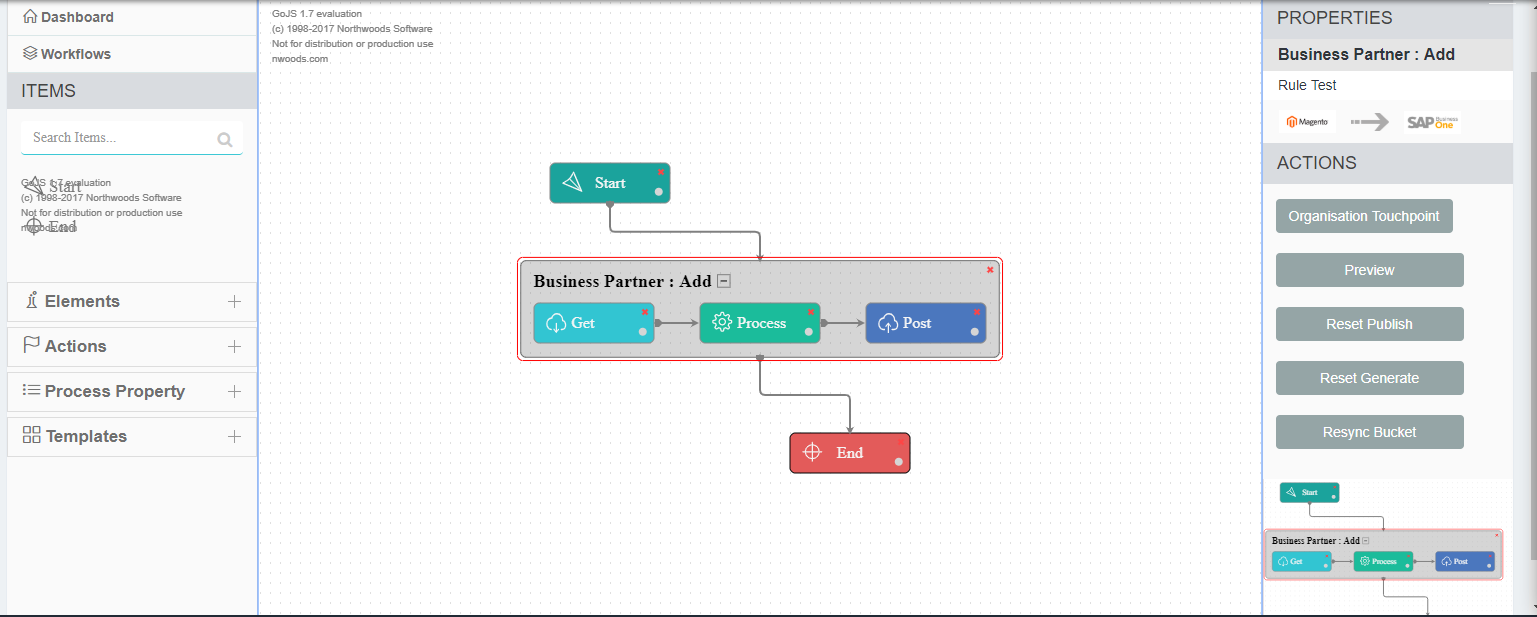
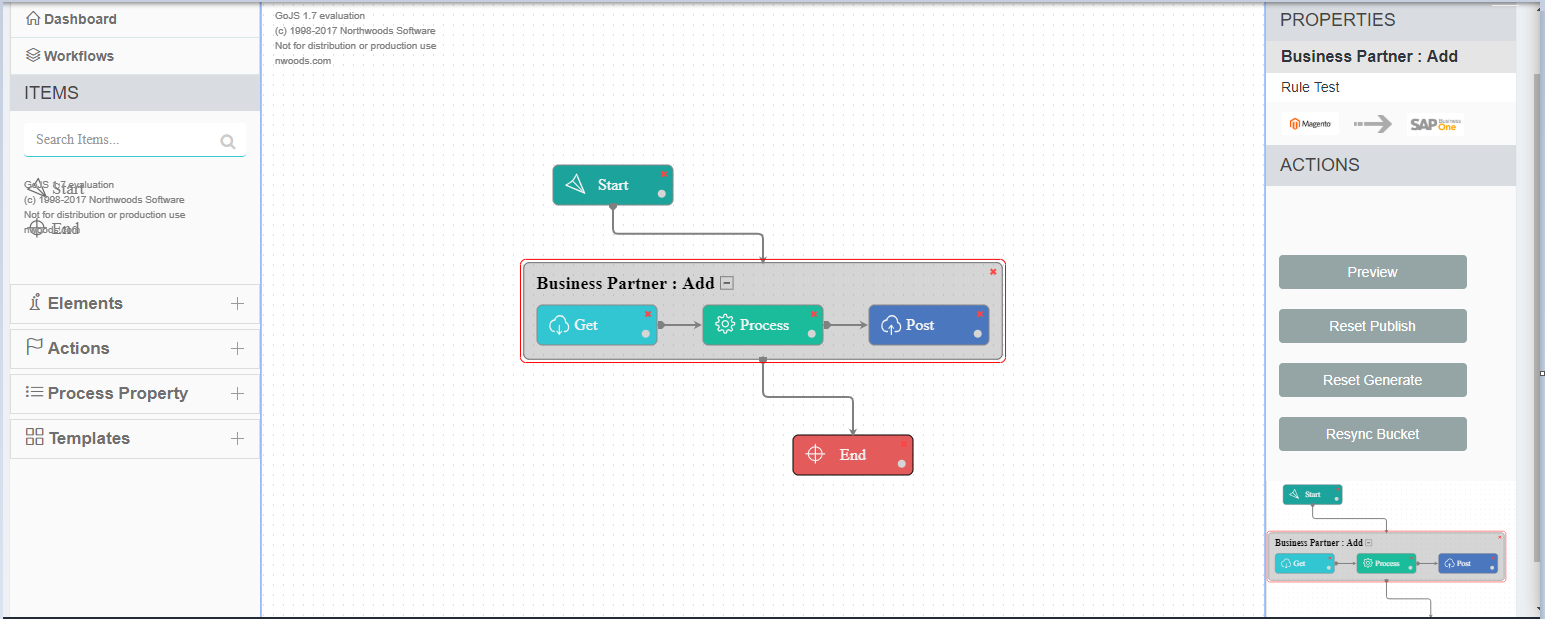
Update REST

diff --git a/_site/assets/js/lunr-en.js b/_site/assets/js/lunr-en.js
@@ -2059,6 +2059,15 @@ var idx = lunr(function () {
     });
     
   
+    idx.add({
+      title: "Mapping and Transformation",
+      excerpt: "Given below is the mapping details for Rest Adapter required for data Integration. Basic prerequisite for Mapping: (A) Here the...",
+      categories: ["Connectors"],
+      tags: ["developers"],
+      id: 227
+    });
+    
+  
 
 
 console.log( jQuery.type(idx) );
@@ -4567,6 +4576,17 @@ var store = [
         "title": "Using Filters for Integration",
         "url": "/connectors/Filters-for-Integration/",
         "excerpt": "Users can define Filters for integration scenario as per business requirements for the GET, POST and PUT operation for REST...",
+        "teaser":
+          
+            "/assets/images/APPSeCONNECT-documentation.png"
+          
+      },
+    
+      
+      {
+        "title": "Mapping and Transformation",
+        "url": "/connectors/Mapping-and-Transformation/",
+        "excerpt": "Given below is the mapping details for Rest Adapter required for data Integration. Basic prerequisite for Mapping: (A) Here the...",
         "teaser":
           
             "/assets/images/APPSeCONNECT-documentation.png"

diff --git a/_site/index.html b/_site/index.html
@@ -696,6 +696,12 @@
     </li>
     
     
+    <li class="menu-item-" data-url="/connectors/Mapping-and-Transformation/" data-jstree='{"icon":"fa fa-gg"}'>
+        <a href="/connectors/Mapping-and-Transformation/" onclick="selectTab('/connectors/Mapping-and-Transformation/', event);" title="Go to Mapping and Transformation">Mapping and Transformation</a>
+        
+    </li>
+    
+    
     <li class="menu-item-" data-url="/connectors/Authentication-and-Authorization/" data-jstree='{"icon":"fa fa-gg"}'>
         <a href="/connectors/Authentication-and-Authorization/" onclick="selectTab('/connectors/Authentication-and-Authorization/', event);" title="Go to Authentication of REST Adapters">Authentication of REST Adapters</a>
         

diff --git a/_posts/Connectors/Technology Connectors/Rest/2019-09-21-Filters-for-Integration.md b/_posts/Connectors/Technology Connectors/Rest/2019-09-21-Filters-for-Integration.md
@@ -42,8 +42,8 @@ from  the workflow workarea itself for REST based application.
 
 ![rest-getnode-workflow](/staticfiles/connectors/media/technology-connector/rest-getnode-workflow.png) 
 
-3 Here you have to define action filters for the REST based connection by clicking on the node (GET) of the workflow. 
-  View the right side panel and click `Action` button. The following screen appears. 
+3 Here you have to define action filters for the REST based connection by clicking on the `GET` node of the workflow. 
+  View the right side panel and click `Filter` button. The following screen appears. 
 
 ![rest_get_actionfilter](/staticfiles/connectors/media/technology-connector/rest_get_actionfilter.png) 
 
@@ -55,22 +55,30 @@ Here Lightspeed app has been taken and it supports OAuth 2.0 for Rest Protocol. 
 
 Click on the Action Filter Tab, to define the action for the GET node.
 
-* Endpoint - Each endpoint is the location from which APIs can access the resources they need to carry out their function.This is a mandatory field, enter the endpoint 
+* Endpoint - Each endpoint is the location from which APIs can access the resources from the respective module of the application.This is a mandatory field, enter the endpoint 
 * Decsription - This field enables you to decsribe the endpoints. This is a mandatory field, enter the description
 * HTTP Method - The HTTP verbs comprise a major portion of our `uniform interface` constraint and provide us the action counterpart to the noun-based resource. Here you need to select `GET` from the drop down list 
   for executing the GET Operation.
 * Content Type - The Content-Type entity header is used to indicate the media type of the resource. In responses, a Content-Type header tells the client what the 
   content type of the returned content actually isSelect from the drop down list. This is of  two types `application/xml` and `application/json`
-* Header - The Content-Type header describes the format the body of your request is being sent as. 
-  For example, the body of your requests can be sent as JSON or XML, but you need to declare in the Content-Type header which one is being used.
+* Header - Use the headers to provide information about the entity or other resource that you are requesting. Each app has its own REST API supports its own set of  HTTP headers.
   Header has two section, insert the header type and header values here. Add button enables to add more header fields, if required. 
 * Parameter - The rest parameter syntax allows us to represent an indefinite number of arguments as an array. 
   With the help of a rest parameter a function can be called with any number of arguments, no matter how it was defined.
   Parameter has two section, insert the parameter type and parameter values here. Add button enables to add more parameter fields, if required. 
-* Response Type - Not Applicable here. 
+* Response Map - Not Applicable here. 
 * Body - Not Applicable here.
 
 Now you have successfully defined the action filter for `GET Operation` supporting REST protocol.
+
+Here in the example, the relationship between key and value is `>`, the 
+value for key is `createTime>~{ReadDate('yyyy-MM-ddTHH:mm:ssK','0')}~`
+
+![rest-resync-filter-parameters](/staticfiles/connectors/media/technology-connector/rest-resync-filter-parameters.png)   
+
+**Note: For any XML & JSON extension in the endpoint name, use $ before the extension while inserting the key, e.g:`customers/$.xml`**
+
+
 
 ## Defining Error Filters for Get Operation
 
@@ -89,12 +97,7 @@ Under the parameter section, the value for `key` is available in respective appl
 If the relationship between key and value is not `=`, then the `value` must be declared in the `key`
 section itself and the `value` must be kept blank.
 
-Here in the example, the relationship between key and value is `>`, the 
-value for key is `createTime>~{ReadDate('yyyy-MM-ddTHH:mm:ssK','0')}~`
 
-![rest-resync-filter-parameters](/staticfiles/connectors/media/technology-connector/rest-resync-filter-parameters.png)   
-
-**Note: For any XML & JSON extension in the endpoint name, use $ before the extension while inserting the key, e.g:`customers/$.xml`**
 
 ### For POST Operation
 

diff --git a/_posts/Connectors/Technology Connectors/Rest/2019-09-20-OAuth2.0.md b/_posts/Connectors/Technology Connectors/Rest/2019-09-20-OAuth2.0.md
@@ -15,9 +15,8 @@ menus:
 
 To configure the OAuth2.0 Authentication type for Generic Rest Adapter follow the steps given below:
 
-1. [Login to APPSeCONNECT Portal](https://docs.appseconnect.com/) and choose the desired application (Rest Supported Application).  
+1. [Login to APPSeCONNECT Portal](https://docs.appseconnect.com/)
 2. [Create Technology Application](/getting-started/#creating-connection--executing-the-touchpoint) using generic rest adapter. Choose `REST` option while creating technology application for REST based protocol.  
-3. [Create Connection](/getting-started/#creating-connection--executing-the-touchpoint) between the application.  
 
 **Protip:** You can use either both technology app or one tech app and one prepackaged app while creating a connection. 
  Also you need to click `Configure Connector` button for creating connection as your desired connection is made of custom application.   
@@ -41,8 +40,8 @@ Provide the Authentication Credential and the Base URL.
 
 The Authentication fields for OAUTH 2.0 are:   
 * Client ID – This is generated when the client logs into the Application.
-* Client Secret – This field is also generated by the REST supported Application.
-* Call Back URL –  This is the secondary URL required for data restoration.
+* Client Secret - This field is also generated by the REST supported Application.
+* Call Back URL - This is the secondary URL required for data restoration. 
 * Authentication URL – This URL is generated along with the Client ID and Client Secret in the REST application itself.
 * Access Token URL 
 * Scope (Optional) 
@@ -51,7 +50,7 @@ The Authentication fields for OAUTH 2.0 are:
         
 **Protip:** By default, SCOPE is an optional field in AEC Agent, but for some applications providing scope is mandatory, 
 you need to provide the SCOPE for those applications 
-{: .notice--info}    
+{: .notice--info}   
       
 Here, we need to generate token which can be done by clicking `VALIDATE` button. 
 
@@ -71,9 +70,9 @@ with the credential that you have provided during the Account Creation.
 
 Follow the steps given below to configure Oauth 2.0 in Generic Rest Adapter in Cloud Enviornment.
 
-1. [Login to APPSeCONNECT Portal](https://docs.appseconnect.com/) and choose the desired application (Rest Supported Application).  
+1. [Login to APPSeCONNECT Portal](https://docs.appseconnect.com/)   
 2. [Create Technology Application](/getting-started/#b-technology-app-creation) using generic rest adapter. Choose `REST` option while creating technology application for REST based protocol.  
-3. [Create Connection](/getting-started/#creating-connection--executing-the-touchpoint) between the application.  
+
     
 **Protip:** You can use either both technology app or one tech app and one prepackaged app while creating a connection. 
  Also you need to click `Configure Connector` button for creating connection as your desired connection is made of custom application.   
@@ -92,13 +91,18 @@ Here you need to enter the following details as shown:
 * Authorization: Select OAuth 2.0 from the drop down list.
 * Client Id: This is generated when the client logs into the Application. Input the Client Id.
 * Auth URL: This URL is generated along with the Client ID and Client Secret in the REST application itself. Input the Auth URL
-* Callback URL: This is the secondary URL required for data restoration. 
+* Callback URL: This is the secondary URL required for data restoration. This url will be `https://portal.appseconnect.com/Dashboard` . 
+
+**NOTE: Use this url in the callback/redirect url field while generating client id and 
+client secret for the new app**
+
 * Access Token URL: An Access Token is a credential that can be used by an application to access an API. They inform the API that the 
   bearer of the token has been authorized to access the API and perform specific actions specified by the scope that has been granted.
 * Client Secret: This field is also generated by the REST supported Application.
 * Scope (Optional)
 * Grant Type: This is the Authorization Code 
 * Access Type (optional)   
+
 
 Click Grant button, to authorize the application. 
 

diff --git a/_posts/Connectors/Technology Connectors/Rest/2019-09-20-BasicAuthentication.md b/_posts/Connectors/Technology Connectors/Rest/2019-09-20-BasicAuthentication.md
@@ -11,7 +11,7 @@ menus:
         title: "Basic Authentication"
         identifier: basicauthentication
 ---
-# Process to Configure Basic Authentication in Generic Rest Adapter - On Premise
+## Process to Configure Basic Authentication in Generic Rest Adapter - On Premise
 To configure the Basic Authentication Type for Generic Rest Adapter follow the steps given below:
 
 1. [Login to APPSeCONNECT Portal](https://docs.appseconnect.com/) and choose the desired application (Rest Supported Application).  
@@ -90,7 +90,7 @@ The touchpoint is executed for the Sync Process by clicking on the START SYNC NO
 
 Follow the steps given below to configure Basic Auth in Generic Rest Adapter in Cloud Enviornment.
 
-1. [Login to APPSeCONNECT Portal](https://docs.appseconnect.com/) and choose the desired application (Rest Supported Application).  
+1. [Login to APPSeCONNECT Portal](https://docs.appseconnect.com/)  
 2. [Create Technology Application](/getting-started/#b-technology-app-creation) using generic rest adapter. Choose `REST` option while creating technology application for REST based protocol.  
 3. [Create Connection](/getting-started/#creating-connection--executing-the-touchpoint) between the application.    
 
@@ -109,9 +109,8 @@ Here you need to enter the following details as shown:
 * URL: This is the base URL, input the URL 
 * Key & Value: This is the content type section that includes the file format types like XML, JSON.
   Input the value from the drop down list of content type field.
-* Authorization: Select OAuth 2.0 from the drop down list.
+* Authorization: Select Basic Auth from the drop down list.
 * User Name: Enter the user name
-* Password: Enter the password
+* Password: This is non- mandatory fields. Some apps only use api key as username and no password is required.
 
-6. Click Save button.   
-7. The Rest based cloud credentials for Basic Authentication is saved successfully.  
+Click Save button. The Reset based `Cloud Credentials` for `Basic Authentication` is saved successfully.  

diff --git a/_posts/Connectors/Technology Connectors/Rest/2019-09-21-Mapping-and-Transformation.md b/_posts/Connectors/Technology Connectors/Rest/2019-09-21-Mapping-and-Transformation.md
@@ -1,0 +1,58 @@
+---
+title: "Mapping and Transformation"
+toc: true
+tag: developers
+category: "Connectors"
+weight: 7
+menus: 
+    resttechnology:
+        icon: fa fa-gg
+        category: "Mapping and Transformation"
+        title: "Mapping and Transformation"
+        identifier: restfiltersmapping
+---
+ 
+## Given below is the mapping details for Rest Adapter required for data Integration.
+
+### Basic prerequisite for Mapping: 
+(A) Here the destination app has been configured using REST adapter and the destination App 
+supports the request data without root element.
+
+Omit Root: This attribute needs to be added to the transformation section when you need to remove any root tag 
+from the transform packet as that root variable is not accepted by the destination application.
+
+`Attribute name: OmitRoot`
+`Type: string`  
+`Mapping: True`
+
+**NOTE: After the sync process, the output packet is checked and we find that the root tag has been removed.**
+
+(B) Here Source app has been configured using REST adapter
+
+maxDate: This root variable needs to be added to the mapping section when the source app is configured using REST adapter. 
+This root variable fetch the date and time of the latest data record created in the Source app and store it so that whenever 
+the sync is executed after the first sync, it does not fetch the old records everytime. This ensures quick sync process.
+
+`Root variable name: maxDate`    
+`Type: String`    
+`Mapping: [sourcelib:WriteMaxDate(..,'{parent tag for each individual record}','{tag which as the value of the date & time when the record got created /updated}','1')]`     
+
+Example: [sourcelib:WriteMaxDate(..,'Customer','createTime','1')]
+
+
+
+
+
+
+
+
+
+
+
+
+
+
+
+
+
+

diff --git a/_posts/Workflow-Management/Quickstart/2018-09-21-deploying-and-executing.md b/_posts/Workflow-Management/Quickstart/2018-09-21-deploying-and-executing.md
@@ -48,11 +48,21 @@ If you change attribute mapping in a workflow you need to publish the workflow b
 is given below
 
 1.	After creating and saving the workflow, click `Reset Generate` Button followed by `Reset Publish`button.
-2.  Save and Refresh the window. 
 ![publish-workflow](/staticfiles/workflow-management/media/publish-workflow.png)
-3. On refreshing, the Publish button appears. The Publish button `publishes every configuration that  the 
+
+The Actions column on the right side of screen consist of buttons that configures and publish the touchpoint used in the workflow.
+
+a. Preview - This button previews the XSLT for the touchpoint used in the workflow  
+b. Reset Publish - This button publishes the configuration of the touchpoint that is used in the workflow.  
+c. Reset Generate - This button generates the configuration for the touchpoint. After generating the configuration, the `Reset Publish` is done.  
+d. Resync Bucket - APPSeCONNECT uses Resync Bucket to keep track of all the items that are getting synced.   
+   The portal view for the Resync Bucket is given below.
+![resync_button](/staticfiles/workflow-management/media/resync_button.png)
+
+ On refreshing, the Publish button appears. The Publish button `publishes every configuration that  the 
 user made in the APPSeCONNECT cloud` and is `compiled to a single file stored on the server` which is 
 accessible from the APPSeCONNECT Agent.
+
 ![publish-workflow2](/staticfiles/workflow-management/media/publish-workflow2.png) 
 
 ## Deploying a Workflow

diff --git a/_posts/home.md b/_posts/home.md
@@ -144,6 +144,8 @@ Click on portal and this will take you the login page of  APPSeCONNECT Portal.
 5. Click `Forgot Password` option to reset the password. A mail will be sent to your (user) account. You can reset the password by clicking on the link provided in the mail and set up a new password.
 
 
+
+
 ## APPSeCONNECT Platform - Functional Menus
 
 The APPSeCONNECT portal is the web-based interface where you can access APPSeCONNECT applications for integration, with the set of Functional menus. The [APPSeCONNECT portal page](https://portal.appseconnect.com/Account/Login?ReturnUrl=%2f#!) is easily accessible.

diff --git a/_posts/Connectors/Technology Connectors/Rest/2019-09-18-Authentication and Authorization.md b/_posts/Connectors/Technology Connectors/Rest/2019-09-18-Authentication and Authorization.md
@@ -3,7 +3,7 @@ title: "Authentication & Authorization of Generic REST Adapters"
 toc: true
 tag: developers
 category: "Connectors"
-weight: 6
+weight: 5
 menus: 
     resttechnology:
         icon: fa fa-gg
